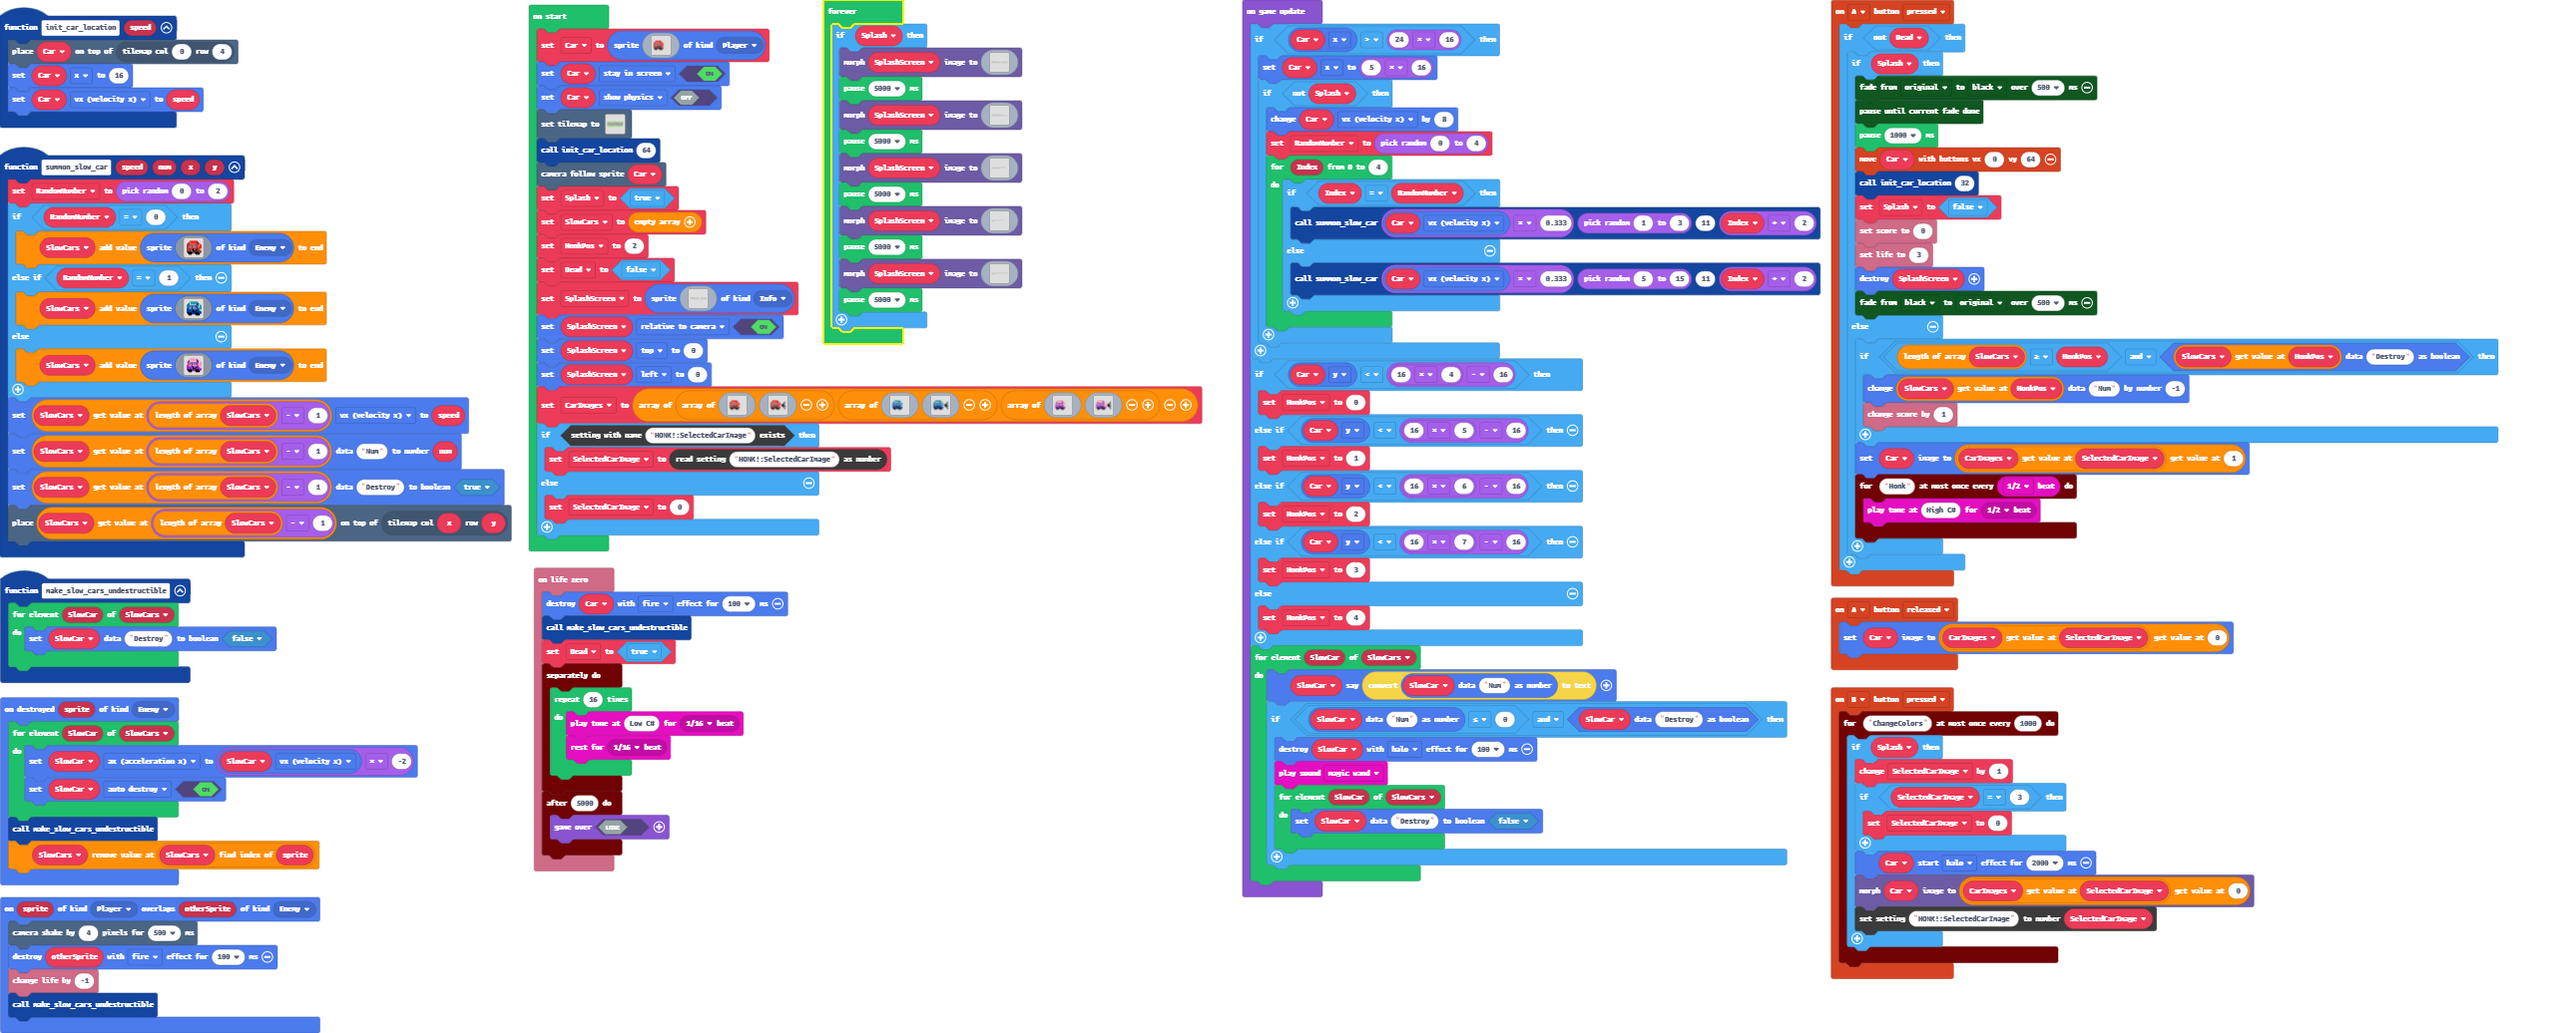
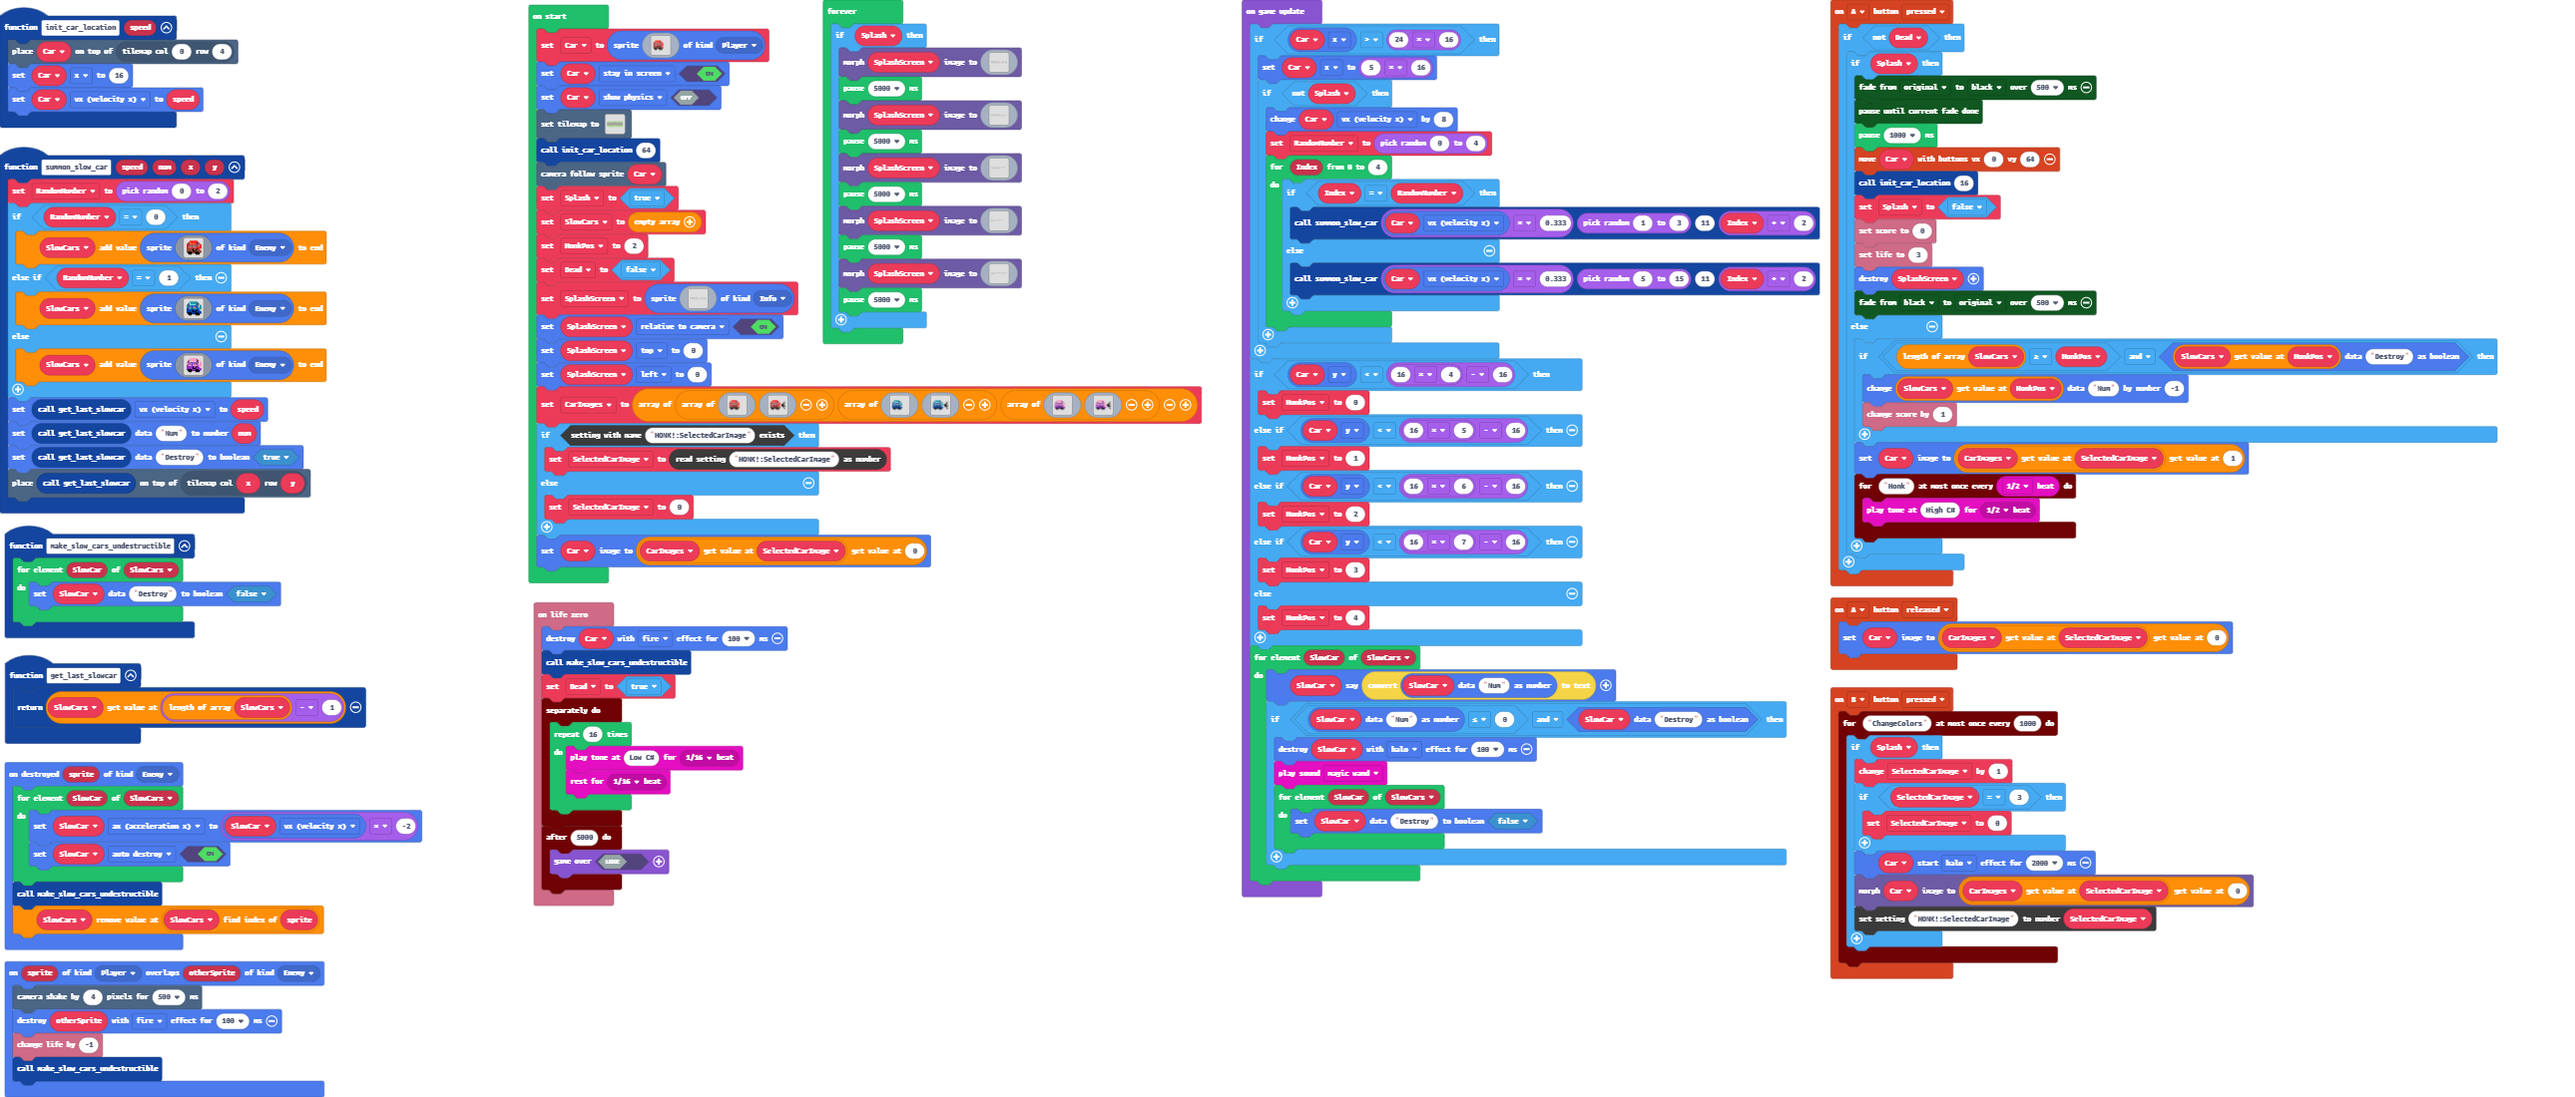
Fixed more bugs and slowed down car

diff --git a/main.ts b/main.ts
@@ -61,10 +61,10 @@ function summon_slow_car (speed: number, num: number, x: number, y: number) {
             . . . . . . . . . . . . . . . . 
             `, SpriteKind.Enemy))
     }
-    SlowCars[SlowCars.length - 1].vx = speed
-    sprites.setDataNumber(SlowCars[SlowCars.length - 1], "Num", num)
-    sprites.setDataBoolean(SlowCars[SlowCars.length - 1], "Destroy", true)
-    tiles.placeOnTile(SlowCars[SlowCars.length - 1], tiles.getTileLocation(x, y))
+    get_last_slowcar().vx = speed
+    sprites.setDataNumber(get_last_slowcar(), "Num", num)
+    sprites.setDataBoolean(get_last_slowcar(), "Destroy", true)
+    tiles.placeOnTile(get_last_slowcar(), tiles.getTileLocation(x, y))
 }
 controller.B.onEvent(ControllerButtonEvent.Pressed, function () {
     timer.throttle("ChangeColors", 1000, function () {
@@ -91,7 +91,7 @@ controller.A.onEvent(ControllerButtonEvent.Pressed, function () {
             color.pauseUntilFadeDone()
             pause(1000)
             controller.moveSprite(Car, 0, 64)
-            init_car_location(32)
+            init_car_location(16)
             Splash = false
             info.setScore(0)
             info.setLife(3)
@@ -112,6 +112,9 @@ controller.A.onEvent(ControllerButtonEvent.Pressed, function () {
 controller.A.onEvent(ControllerButtonEvent.Released, function () {
     Car.setImage(CarImages[SelectedCarImage][0])
 })
+function get_last_slowcar () {
+    return SlowCars[SlowCars.length - 1]
+}
 info.onLifeZero(function () {
     Car.destroy(effects.fire, 100)
     make_slow_cars_undestructible()
@@ -320,6 +323,7 @@ if (blockSettings.exists("HONK!:SelectedCarImage")) {
 } else {
     SelectedCarImage = 0
 }
+Car.setImage(CarImages[SelectedCarImage][0])
 game.onUpdate(function () {
     if (Car.x > 24 * 16) {
         Car.x = 5 * 16
